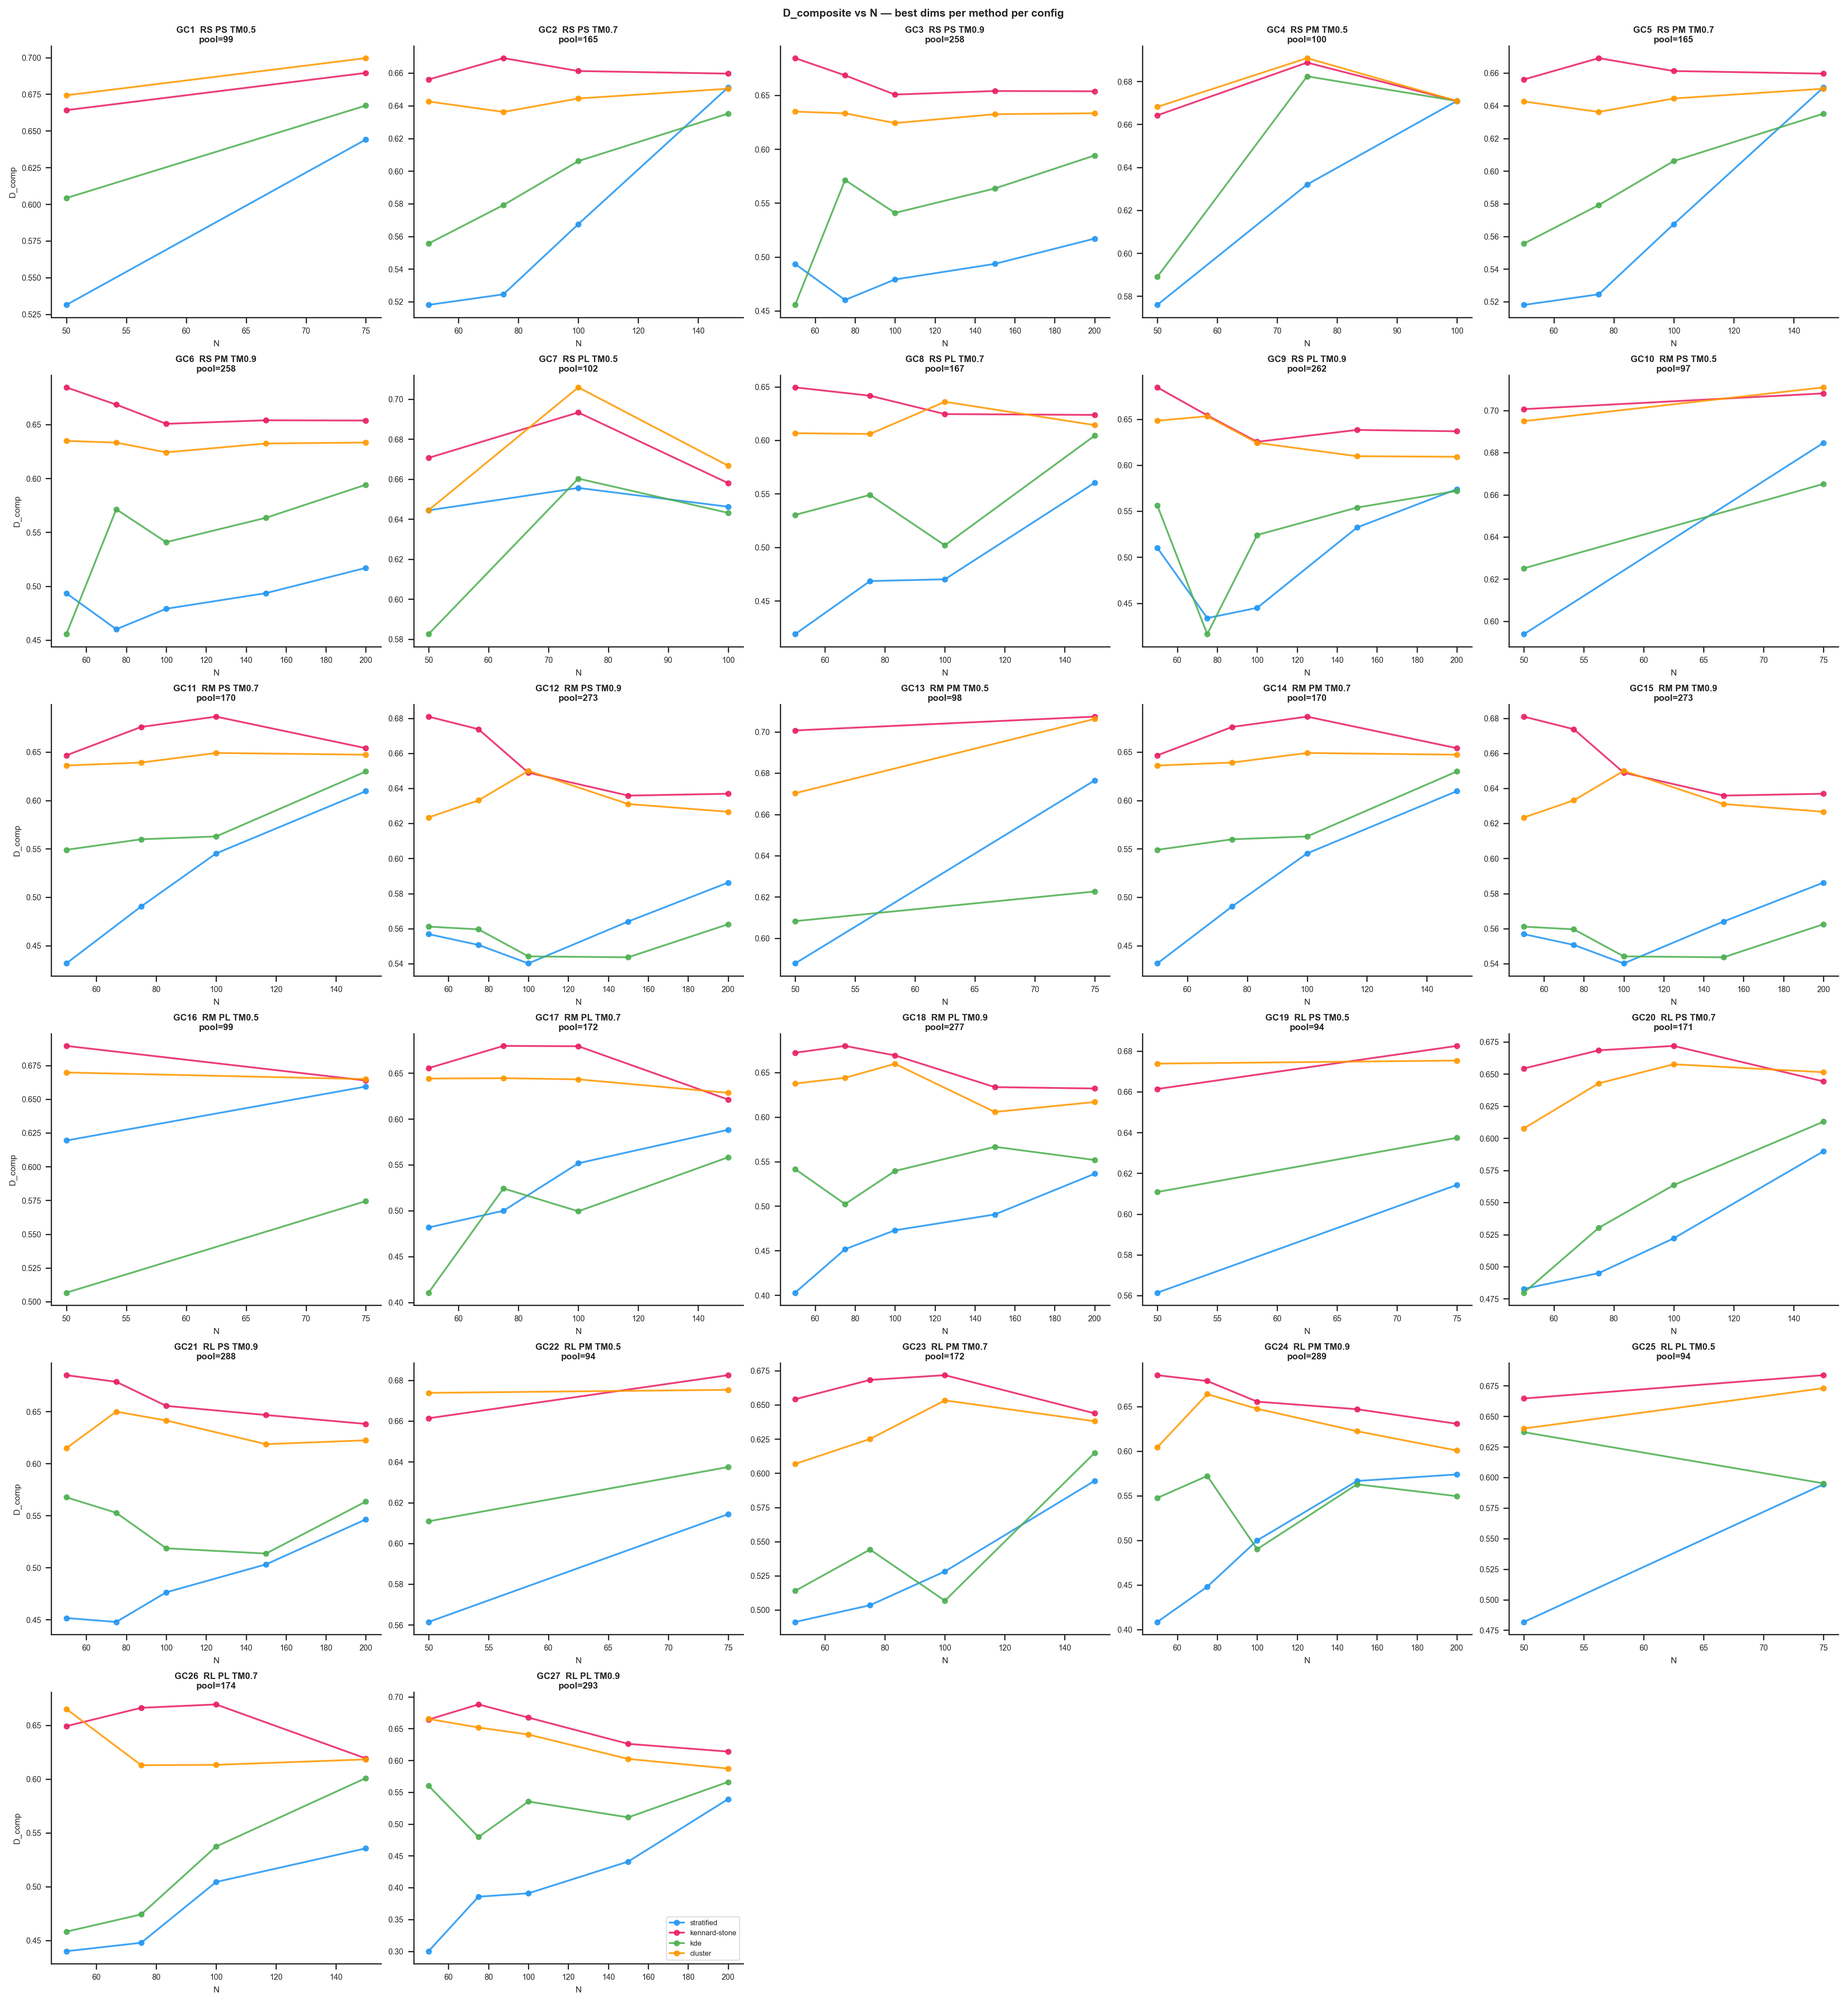
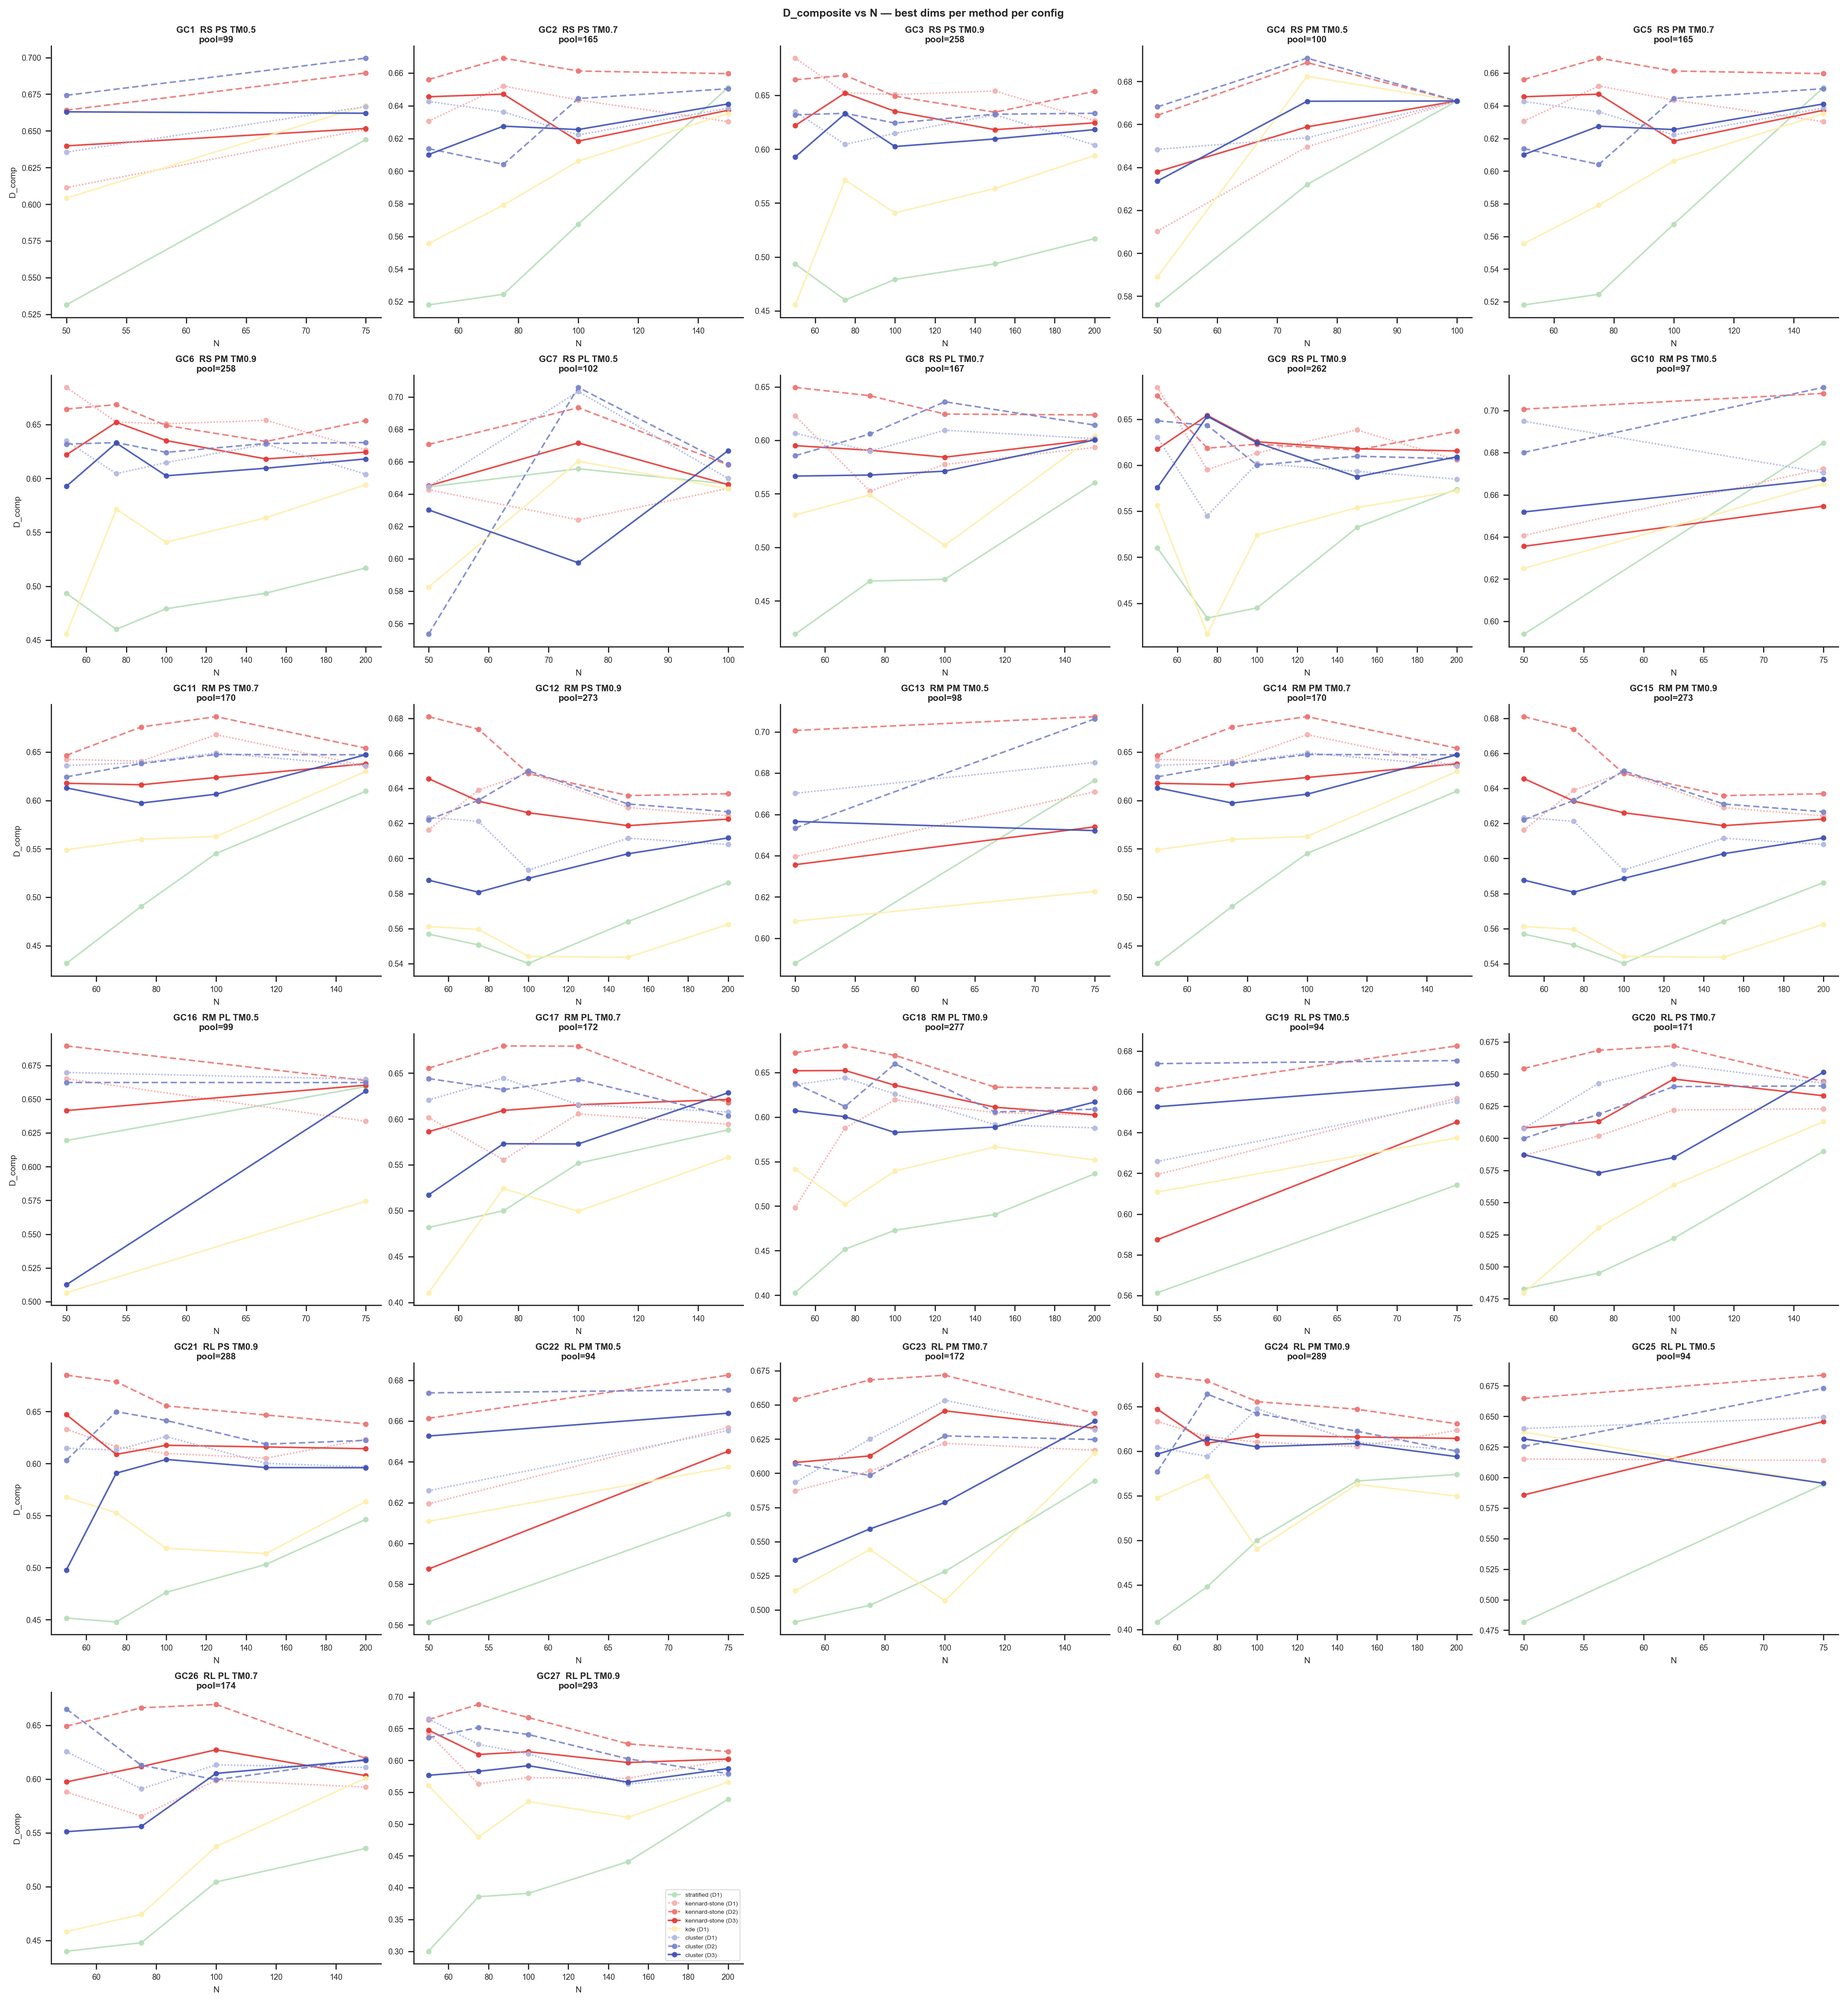
draft notebook

diff --git a/pepxpro_benchmark/scripts/02_optimize_benchmark.py b/pepxpro_benchmark/scripts/02_optimize_benchmark.py
@@ -377,6 +377,7 @@ def print_summary(results, configs):
 # ---------------------------------------------------------------------------
 
 def plot_results(results, configs):
+    import matplotlib.colors as mcolors
     import matplotlib.pyplot as plt
     import seaborn as sns
 
@@ -384,11 +385,24 @@ def plot_results(results, configs):
                   rc={"axes.spines.top": False, "axes.spines.right": False})
 
     colors = {
-        "stratified":      "#2196F3",
-        "kennard-stone":   "#E91E63",
-        "kde":             "#4CAF50",
-        "cluster":         "#FF9800",
+        "stratified":      "#4CAF50",
+        "kennard-stone":   "#E53935",
+        "kde":             "#FDD835",
+        "cluster":         "#3F51B5",
     }
+    # More dims = stronger/darker tone of the method's base color.
+    dims_shade = {"D1": 0.4, "D2": 0.7, "D3": 1.0}
+    # For methods with more than one dims combo (KS, cluster), also vary dash
+    # length with dims: shorter dashes = fewer dims sampled, continuous = most.
+    # stratified/kde only ever run D1 and keep a plain solid trend line
+    # (no dims to contrast).
+    dims_linestyle = {"D1": (0, (1, 1)), "D2": (0, (4, 2)), "D3": "-"}
+    MULTI_DIM_METHODS = {"kennard-stone", "cluster"}
+
+    def _shaded(hex_color, dims_id):
+        factor = dims_shade.get(dims_id, 1.0)
+        rgb = mcolors.to_rgb(hex_color)
+        return tuple(1 - (1 - c) * factor for c in rgb)
 
     _abbr = {"recstrict": "RS", "recmedium": "RM", "reclenient": "RL",
              "pepstrict": "PS", "pepmedium": "PM", "peplenient": "PL"}
@@ -411,18 +425,21 @@ def plot_results(results, configs):
                and r["D_composite"] is not None]
         pool_n = int(float(str(sub[0]["pool_size"]))) if sub else "?"
 
+        handles = {}
         for method in METHODS:
-            by_n = {}
-            for r in sub:
-                if r["method"] != method: continue
-                N = r["N"]
-                if N not in by_n or r["D_composite"] > by_n[N]["D_composite"]:
-                    by_n[N] = r
-            if not by_n: continue
-            ns = sorted(by_n)
-            ds = [by_n[n]["D_composite"] for n in ns]
-            ax.plot(ns, ds, "o-", color=colors[method], label=method,
-                    linewidth=1.5, markersize=4, alpha=0.85)
+            dims_ids = sorted({r["dims_id"] for r in sub if r["method"] == method})
+            for dims_id in dims_ids:
+                pts = sorted((r["N"], r["D_composite"]) for r in sub
+                             if r["method"] == method and r["dims_id"] == dims_id)
+                if not pts:
+                    continue
+                ns = [p[0] for p in pts]
+                ds = [p[1] for p in pts]
+                ls = dims_linestyle.get(dims_id, "-") if method in MULTI_DIM_METHODS else "-"
+                line, = ax.plot(ns, ds, marker="o", linestyle=ls,
+                                 color=_shaded(colors[method], dims_id),
+                                 linewidth=1.3, markersize=3.5, alpha=0.9)
+                handles[f"{method} ({dims_id})"] = line
 
         ax.set_title(f"GC{cfg['id']}  {_short(cfg['name'])}\npool={pool_n}", fontsize=7.5,
                      fontweight="bold", pad=3)
@@ -430,7 +447,8 @@ def plot_results(results, configs):
         ax.set_ylabel("D_comp" if col == 0 else "", fontsize=7)
         ax.tick_params(labelsize=6.5)
         if idx == n_cfg - 1:
-            ax.legend(fontsize=6, loc="lower right", framealpha=0.7)
+            ax.legend(handles.values(), handles.keys(), fontsize=5, loc="lower right",
+                      framealpha=0.7, ncol=1)
         sns.despine(ax=ax)
 
     # hide unused axes in last row

diff --git a/pepxpro_benchmark/scripts/01_make_benchmark.py b/pepxpro_benchmark/scripts/01_make_benchmark.py
@@ -56,24 +56,14 @@ from modules.export import write_sample, link_cifs, write_fasta
 SUMMARY_TSV = _scrape_out / "summary_merged.tsv"
 
 PROFILES = {
-    "GC5": {
+    "GC2": {
         "version":         "v1",
         "seq_id_receptor": "strict",   # rec_preset — receptor 40% CD-HIT
-        "seq_id_peptide":  "medium",   # pep_preset — peptide 80% Biopython pairwise
-        "tm_score":        0.7,
-        "sampling_method": "kennard-stone",
-        "dims":            ["dg", "pep_len", "rec_len", "n_contacts"],  # D2
-        "sample_n":        75,         # elbow N for GC5
-        "seed":            42,
-    },
-    "GC11": {
-        "version":         "v2",
-        "seq_id_receptor": "medium",   # rec_preset — receptor 50% CD-HIT
         "seq_id_peptide":  "strict",   # pep_preset — peptide 70% Biopython pairwise
         "tm_score":        0.7,
         "sampling_method": "kennard-stone",
         "dims":            ["dg", "pep_len", "rec_len", "n_contacts"],  # D2
-        "sample_n":        100,        # elbow N for GC11
+        "sample_n":        75,         # elbow N for GC2
         "seed":            42,
     },
 }
